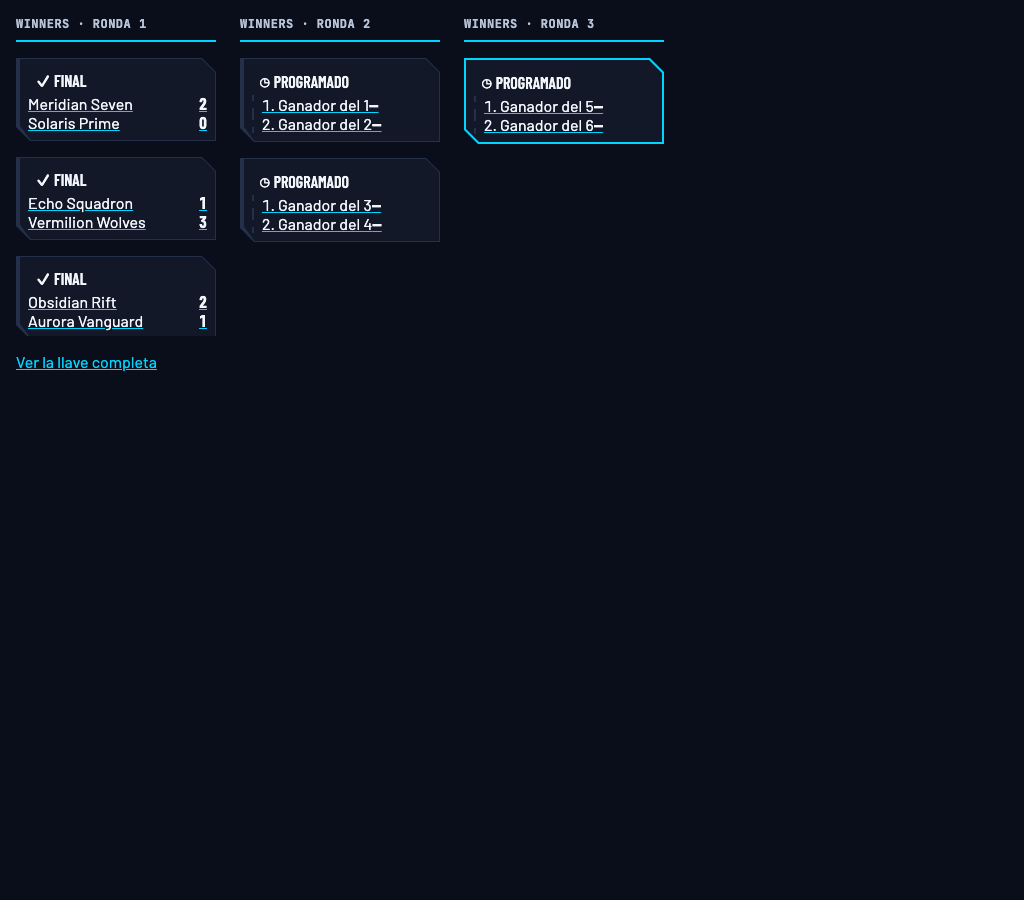
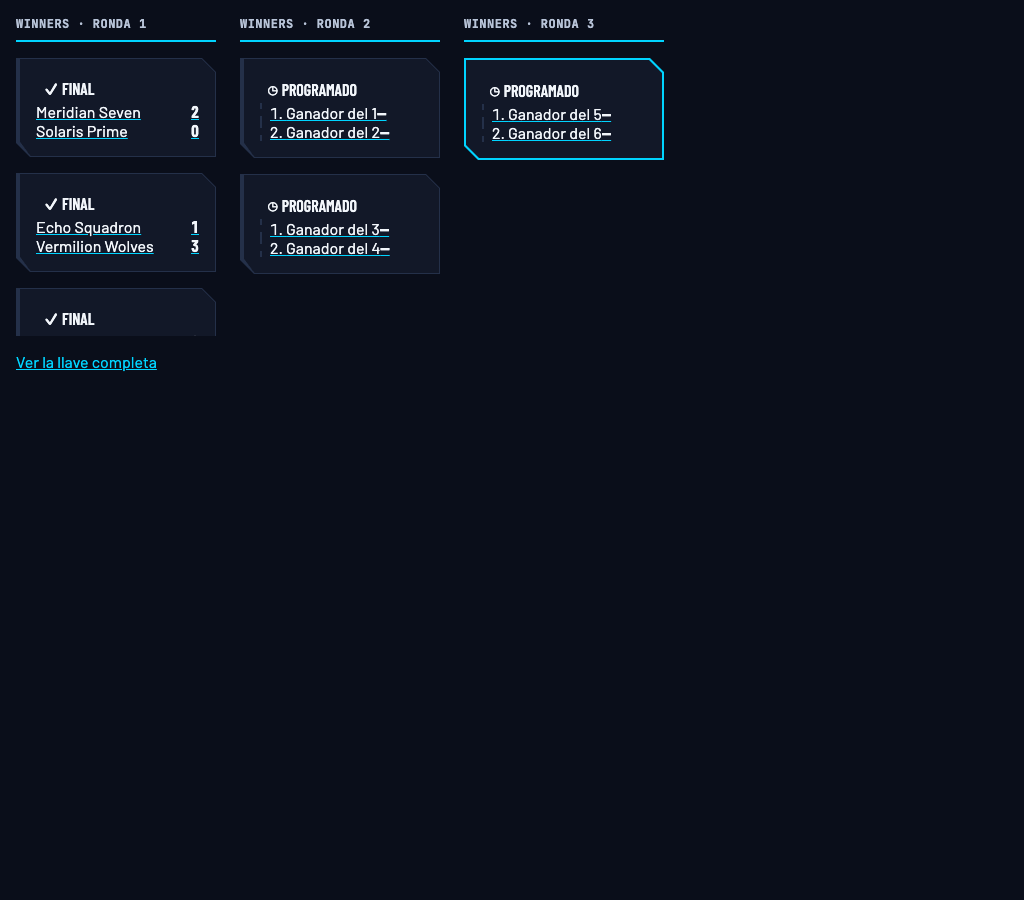
fix(public-web): keep bracket cards at the standard --cl-space-4 padding
Reverts the padding override from the prior commit — the ol
list-indent fix and the .cl-slot flex row alone were enough to stop
the score wrapping, so the card padding never needed to shrink from
the design system's standard 16px.

diff --git a/packages/design-tokens/src/generate/css.ts b/packages/design-tokens/src/generate/css.ts
@@ -1484,12 +1484,6 @@ function compositions(): string {
     '',
     '.cl-bracket-stage__node { min-width: 0; }',
     '',
-    // The default .cl-card padding (--cl-space-4, 16px) plus its 4px accent
-    // border eats over a third of the round column's 200px min-width — the
-    // same reason the control BracketCanvas overrides its own node padding
-    // down to --cl-space-2 (8px). Matched here for the same reason.
-    '.cl-bracket-stage__node .cl-card { padding: var(--cl-space-2); }',
-    '',
     // Bare .cl-slot had no rules of its own, so the ordered list's browser
     // default 40px marker indent — far more than the card padding itself —
     // was left to squeeze slot rows down to almost nothing. list-style-position:
